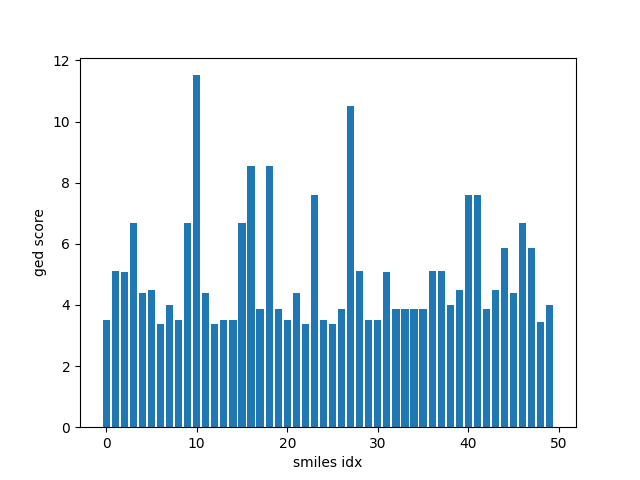
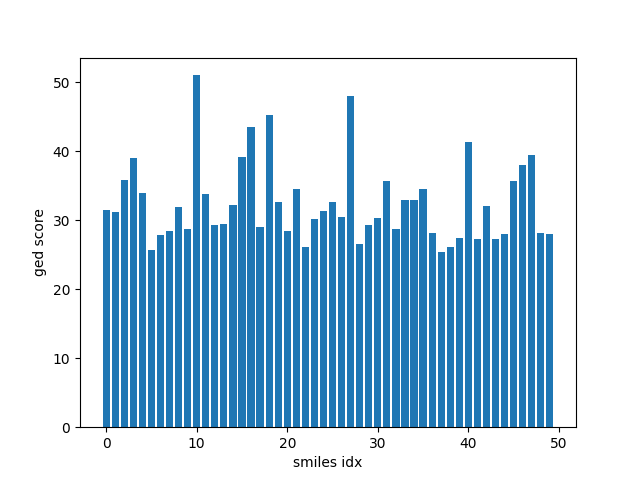
edits on vocab, tree similarity, time profiling JTVAE, honeycomb

diff --git a/tree_similarity/tree_similarity.py b/tree_similarity/tree_similarity.py
@@ -15,46 +15,74 @@ with open("../zinc/all.txt") as f:
     smiles_list = f.readlines()
 
 
+
 def tree_similarity(idx):
     chosen_smiles = smiles_list[idx]
     mol = Chem.MolFromSmiles(chosen_smiles)
     cliques, molTreeEdges, triangulated_graph = tree_decomp(mol)
 
     chosen_graph = nx.Graph()
-    # chosen_graph.add_edges_from(molTreeEdges)
-    chosen_graph.add_nodes_from(molTreeEdges)
+    chosen_graph.add_edges_from(molTreeEdges)
+    # chosen_graph.add_nodes_from(molTreeEdges)
 
     ged_value = []
-    for i, smiles in enumerate(smiles_list[:1000]):
+    for i, smiles in enumerate(smiles_list[:5000]):
         mol = Chem.MolFromSmiles(smiles)
         _, molTreeEdges, _ = tree_decomp(mol)
         temp_graph = nx.Graph()
-        # temp_graph.add_edges_from(molTreeEdges)
-        temp_graph.add_nodes_from(molTreeEdges)
+        temp_graph.add_edges_from(molTreeEdges)
+        # temp_graph.add_nodes_from(molTreeEdges)
 
-        ged_value.append(nx.graph_edit_distance(chosen_graph, temp_graph))
-        # for v in nx.optimize_graph_edit_distance(chosen_graph, temp_graph):
-        #     minv = v
-        # print(minv)
-        # ged_value.append(minv)
+        # ged_value.append(nx.graph_edit_distance(chosen_graph, temp_graph))
+        val = nx.graph_edit_distance(chosen_graph, temp_graph, timeout=2)
+        # val = val if val else 0
+        if val: ged_value.append(val)
 
-    return ged_value
+        # if i % 5 == 0: print(ged_value[i - 5 : i])
+        if i % 200 == 0: print(i)
+    
+    # ged_mean = np.mean(np.array(ged_value))
+    ged_mean = sum(ged_value) / len(ged_value)
+
+    # with open("ged_mean_values.txt", "a") as myfile:
+    #     myfile.writelines("{},{}\n".format(idx, ged_mean))
+
+    return idx, ged_mean
+
+# with open("ged_mean_values.txt", "w") as myfile:
+#     ged_mean_list = []
+#     for i, smiles in enumerate(smiles_list[:50]):
+#         ged = tree_similarity(i)
+#         ged_mean = np.mean(np.array(ged))
+#         print(ged_mean)
+#         ged_mean_list.append(ged_mean)
+#         myfile.writelines("{},{}\n".format(i, ged_mean))
+
+
+
+ged_mean_list = []
+with concurrent.futures.ThreadPoolExecutor() as executor:
+    val = [i for i in range(len(smiles_list[:50]))]
+    ged_mean_list = executor.map(tree_similarity, val)
+
+
+ged_mean_list = list(ged_mean_list)
+print(ged_mean_list)
+
+with open("ged_mean_values.txt", "w") as myfile:
+    ged_mean_list_new = []
+    for i, ged_mean in ged_mean_list:
+        myfile.writelines("{},{}\n".format(i, ged_mean))
+        ged_mean_list_new.append(ged_mean)
+
 
 with open("ged_mean_values.txt", "a") as myfile:
-    ged_mean_list = []
-    for i, smiles in enumerate(smiles_list[:50]):
-        ged = tree_similarity(i)
-        ged_mean = np.mean(np.array(ged))
-        print(ged_mean)
-        ged_mean_list.append(ged_mean)
-        myfile.writelines("{},{}\n".format(i, ged_mean))
+    myfile.writelines("--------------------\n")
 
 
-plt.bar(x=[i for i, smiles in enumerate(smiles_list[:50])], height=ged_mean_list)
+plt.bar(x=[i for i, smiles in enumerate(smiles_list[:50])], height=ged_mean_list_new)
 # plt.xticks(rotation = 90)
 plt.xlabel('smiles idx')
 plt.ylabel('ged score')
 plt.savefig("tree_ged_score.png")
 
-# with concurrent.futures.ThreadPoolExecutor() as executor:
-#     executor.map(tree_similarity, [i for i in range(len(smiles_list))])

diff --git a/tree_similarity/tree_sim_utils.py b/tree_similarity/tree_sim_utils.py
@@ -1,0 +1,33 @@
+
+import matplotlib.pyplot as plt
+import numpy as np
+
+def generate_index(n_target, n_sample):
+    # 240_000 - 250K ZINC dataset
+    target = np.random.randint(240_000, size=n_target)
+    sample = np.random.randint(240_000, size=n_sample)
+    
+    # with open("index.txt") as f:
+    #     for val in target: f.writelines("{},".format(val))
+    #     for val in sample: f.writelines("{},".format(val))
+
+
+def plot_ged():
+    with open("../a_JTVAE/tree_similarity/ged_mean_values2.txt") as f:
+        jtvae_ged_list = f.readlines()
+        jtvae_ged = [float(ged.split(",")[1]) for ged in jtvae_ged_list if len(ged.split(",")) == 2]
+
+    with open("ged_mean_values.txt") as f:
+        cliquify_ged_list = f.readlines()
+        cliquify_ged = [float(ged.split(",")[1]) for ged in cliquify_ged_list if len(ged.split(",")) == 2]
+
+    plt.bar(x=[i for i, val in enumerate(cliquify_ged)], color="b", label="cliquify", height=cliquify_ged)
+    plt.bar(x=[i for i, val in enumerate(jtvae_ged)], color="g", label="jtvae", height=jtvae_ged)
+    # plt.xticks(rotation = 90)
+    plt.title("Graph Edit Distance(GED) on 5000 smiles")
+    plt.xlabel('smiles idx')
+    plt.ylabel('ged score (nodes)')
+    plt.legend()
+    plt.savefig("tree_ged_score_compiled_trees.png")
+
+plot_ged()
